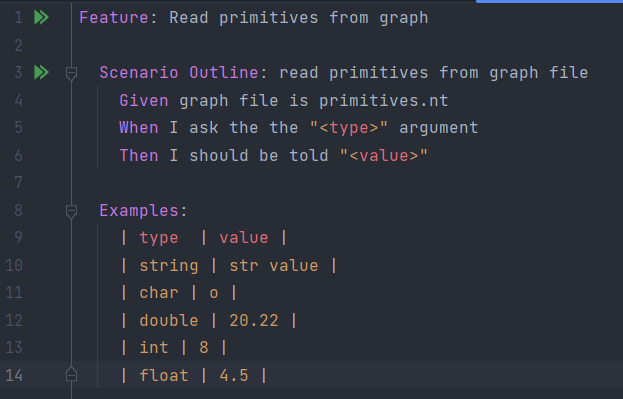
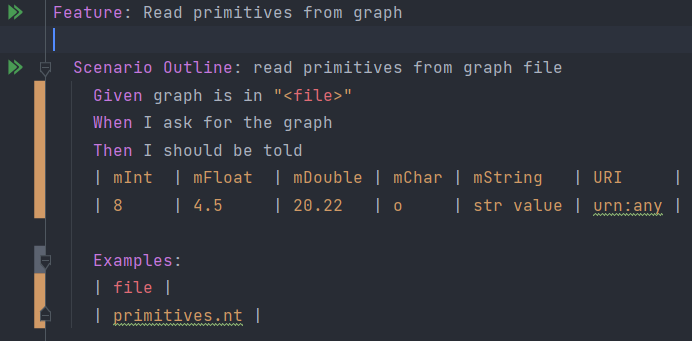
fix documentation #4

diff --git a/doc/4-BDD_tesztek.md b/doc/4-BDD_tesztek.md
@@ -9,6 +9,11 @@ task hozzáadása a gradle-höz:
 
 ### Read primitives from graph
 
+Ellenőrzi az olyan gráf beolvasását amely primitíveket tartalmaz.
+
+Ehhez létre kellett hozni egy konvertálót ami a DataTable-ből egy ClassWithPrimitives példányt hoz létre:
+<img src="D:\BME_sajat\6\IET\iet-hf2021-hat-ez-szomoru-hir\doc\BDD_assets\class_primitive_datatabletype.png" style="zoom:67%;" />
+
 Teszt leírása a .feature fájlban:
 <img src="bdd_assets/read_primitives_feature.png" style="zoom:67%;" />
 
